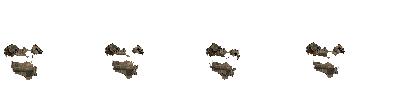
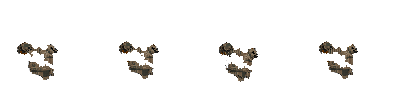
Collector. Vacuum. woodArmor/collect.aseprite

diff --git a/src/reactApp/pages/Test/TestPage.tsx b/src/reactApp/pages/Test/TestPage.tsx
@@ -2607,13 +2607,14 @@ class TestPage extends React.Component {
                     var y = Draw.canvas.height - Game.bottomShiftBorder - Collector.imageHeight - 75;
                     collector1 = new Collector(Draw.canvas.width / 2 - 150, y);
                     collector1.loadedResourcesAfterBuild();
+                    collector1.improveToWoodArmor();
                     collector1.defense = 1;
                     Units.all.push(collector1);
                 }, 300);
 
                 setTimeout(() => {
-                    //if(collector1)
-                    //    collector1.improveToVacuum();
+                    if(collector1)
+                        collector1.improveToVacuum();
                     this.waitLoadingImage(Zombie.imageHandler, () => {
                         var zombie = new Zombie(Draw.canvas.width / 2 - 250, 780, true, 1);
                         Monsters.all.push(zombie);
